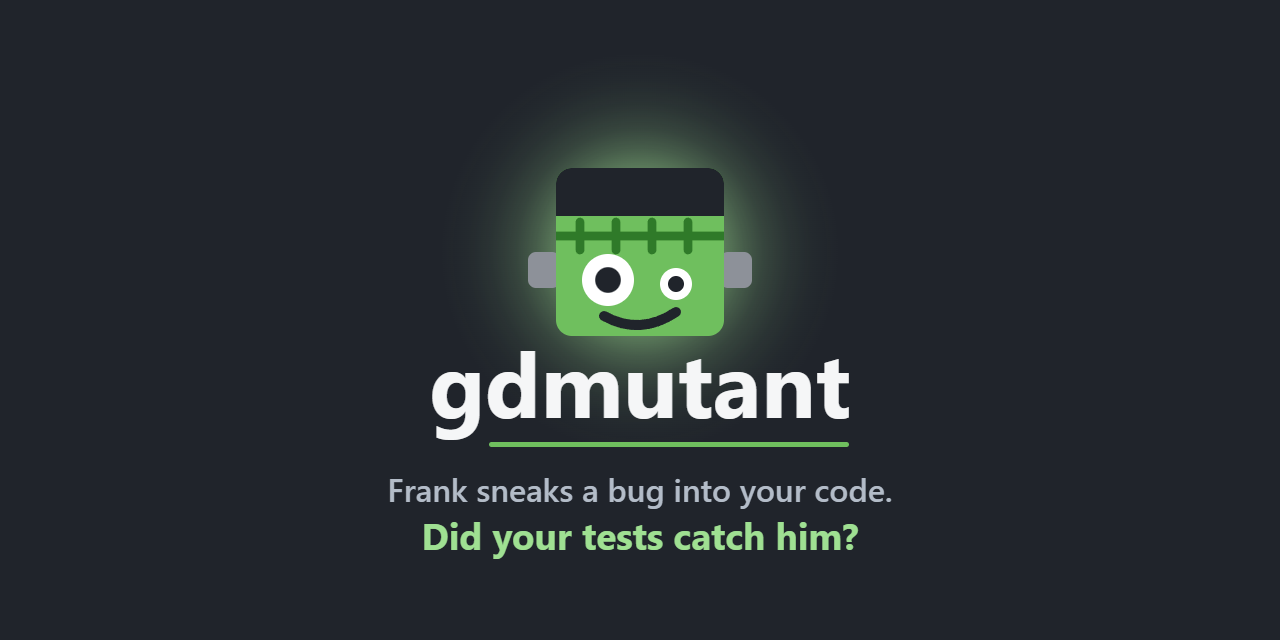
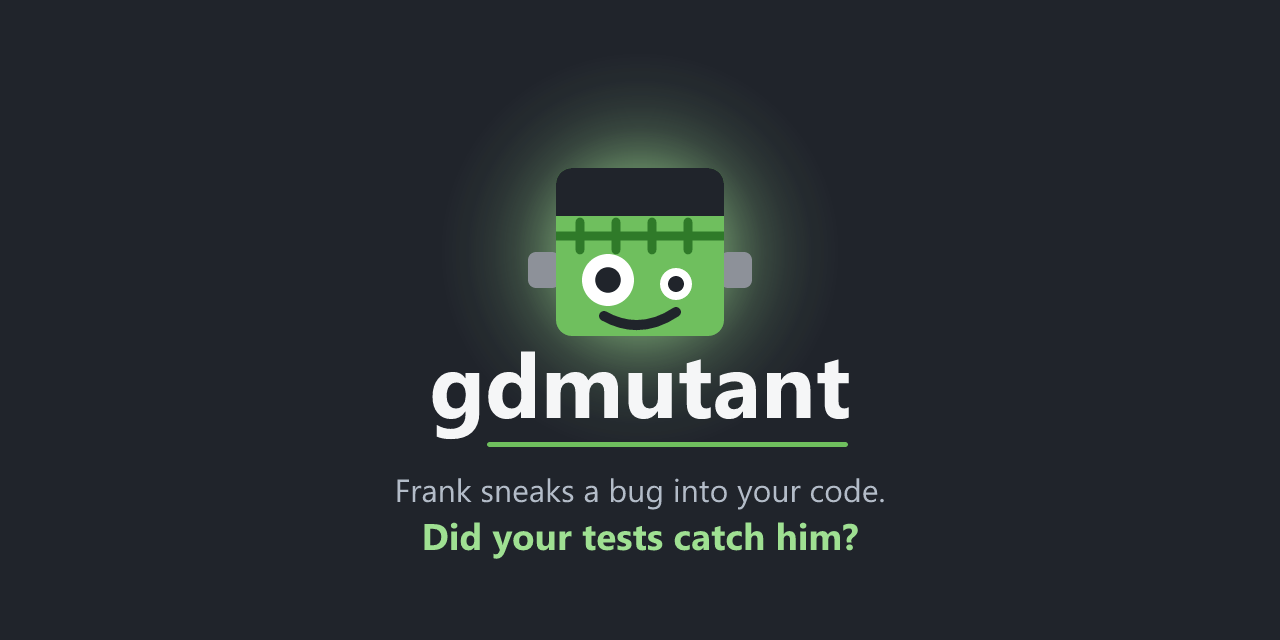
fix: the underline rule overshoots past "gdmutant" -- revert to the real width (#234)
* fix: the underline rule overshoots past "gdmutant" -- revert to the real width

PR #229 widened the rule to width=437 based on a render measurement (final-t
at x=984) that turned out to be wrong. The operator looked at the live
banner and confirmed it: the rule visibly runs past the final "t". Traced
the actual mistake: "Frank sneaks a bug into your code." (the tagline right
below, same left edge x=489) genuinely ends around x=977 at its own font
size -- close enough to the wrongly-widened rule's endpoint (984) that the
rule visually lines up with THAT line, not with "gdmutant" above it.

Re-measured with resvg (a non-browser SVG renderer, independent of every
tool used so far this session) restricted strictly to the "gdmutant"
heading's own row: it ends at x=908, not x=984. That matches, exactly, the
same endpoint four separate independent local methods converged on earlier
this session (a canvas-harness render, a real headless-Chromium/Playwright
screenshot, a bare canvas measureText() call, and now resvg) -- all
disagreeing with the one number that turned out to be wrong.

Reverts banner.svg's rule to width=361 (x=547 to x=908, re-verified against
the real heading-row-only measurement, not just restored blindly) and fixes
social-preview.svg's rule the same way (x=487 width=361, independently
re-measured against its own centered heading, not copied from banner) --
both now land within 1px of the real final "t", inside antialiasing
tolerance.
[…]

diff --git a/tests/test_public_readiness.py b/tests/test_public_readiness.py
@@ -1288,6 +1288,7 @@ def test_git_ignores_a_private_word_list_dropped_into_this_tree() -> None:
 #: that silently stops being readable then shows up as a failure here instead of as one fewer
 #: file scanned, which is how a whole file used to fall out of this guard without saying so.
 UNREADABLE_BY_DESIGN = (
+    ".github/assets/banner.png",
     ".github/assets/frank.png",
     ".github/assets/html-report-survivor-card.png",
     ".github/assets/html-report-survivor-code.png",

diff --git a/docs/releasing.md b/docs/releasing.md
@@ -223,11 +223,25 @@ manual version becomes the way to reproduce a failure by hand.
   its name. *Automatable:* description and topics are repository settings `scripts/harden_github.py`
   can converge. The social-preview image is uploaded by hand and stays a one-time click. The
   source SVG and the exact PNG uploaded are `.github/assets/social-preview.svg`/`.png` -- committed
-  so the design survives if the machine that made it doesn't. To regenerate the PNG after an SVG
-  edit: open the SVG in a browser at its native 1280x640 and save a screenshot, or use any
-  SVG-to-PNG renderer that respects the embedded `font-family` stack (the text is live system
-  fonts, not outlined paths, so rendering fidelity depends on what fonts are installed on the
-  machine doing the rendering).
+  so the design survives if the machine that made it doesn't.
+
+  Both this and the README banner (`.github/assets/banner.svg`/`.png`) are baked to PNG rather than
+  embedded live, and that choice is load-bearing, not cosmetic: the underline rule under "gdmutant"
+  was hand-tuned against live SVG `<text>` three separate times (issues traced through PRs #228,
+  #229, #234) and kept getting re-broken, because the actual rendered width depends on which font a
+  viewer's browser resolves from the `font-family` fallback stack -- confirmed directly by rendering
+  the same text with only the font varied and watching the measured width swing by ~90px. A PNG has
+  no fallback stack: it is fixed pixels, rendered once, identical for every viewer forever. The SVGs
+  stay as the editable source; the PNGs are what's actually embedded in `README.md` and uploaded to
+  GitHub's Social Preview setting.
+
+  To regenerate a PNG after an SVG edit: render it with a tool that resolves real system fonts (a
+  real browser, or a native renderer such as `resvg`) rather than eyeballing a live-SVG measurement
+  by hand -- that hand-measurement is exactly what broke three times. Whatever renderer is used,
+  re-verify the underline rule against the actual rendered text in that same output (a pixel scan
+  restricted to the heading's own row, not just "looks about right"), since the same fallback-stack
+  instability that broke the live SVG is just as capable of baking in a wrong measurement permanently
+  if the render used to produce the PNG resolves a different font than most real viewers would.
 
 - `ci.yml` runs automatically again. The README's CI badge reports on `ci.yml`, and a workflow
   with no automatic trigger has no result to report, so the badge reads "no status" to every

diff --git a/README.md b/README.md
@@ -1,5 +1,5 @@
 <h1 align="center">
-  <img src=".github/assets/banner.svg" alt="gdmutant: banner with Frank the Mutant, the project mascot" width="1200" height="320">
+  <img src=".github/assets/banner.png" alt="gdmutant: banner with Frank the Mutant, the project mascot" width="1200" height="320">
 </h1>
 
 <p align="center"><strong>Mutation testing for GDScript and Godot: find the bugs your green tests would miss.</strong></p>
